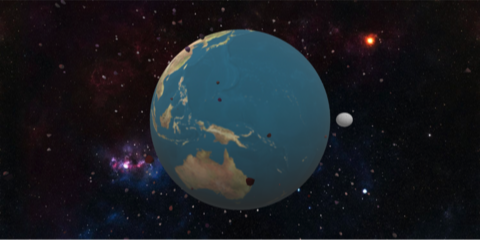
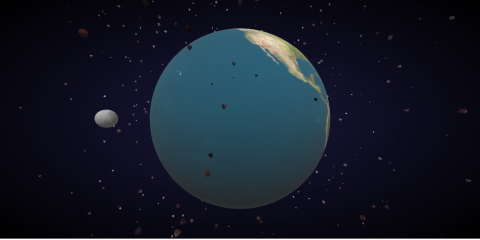
メインビジュアル修正

diff --git a/components/top/mainvisual.tsx b/components/top/mainvisual.tsx
@@ -81,17 +81,17 @@ export default function Component() {
         <div className="p-select-box">
           {mainvisual.map ( (data: Meinvisuallist ) => {
             return (
-              <label key="mainvisual">
-                <input type="radio" name="mainvisual" value={data.value} onChange={(e) => onchanges(e.currentTarget.value)} />
-                <img src={data.img} />
+              <label key="mainvisual" className="p-select-box-label">
+                <input type="radio" className="p-select-box-input" name="mainvisual" value={data.value} onChange={(e) => onchanges(e.currentTarget.value)} />
+                <img className="p-select-box-img" src={data.img} />
               </label>
             )
           } ) }
           {mainvisual.map ( (data: Meinvisuallist ) => {
             return (
-              <label key="mainvisual">
-                <input type="radio" name="mainvisual" value={data.value} onChange={(e) => onchanges(e.currentTarget.value)} />
-                <img src={data.img} />
+              <label key="mainvisual" className="p-select-box-label">
+                <input type="radio" className="p-select-box-input" name="mainvisual" value={data.value} onChange={(e) => onchanges(e.currentTarget.value)} />
+                <img className="p-select-box-img" src={data.img} />
               </label>
             )
           } ) }

diff --git a/styles/pages/p-main.css b/styles/pages/p-main.css
@@ -42,32 +42,32 @@
 * select
 **/
 .p-select-box {
-  display: flex;
-  width: 100%;
-  overflow: hidden;
   background-color: black;
   position: absolute;
   bottom: 0;
   left: 0;
+  display: flex;
+  width: 100%;
+  overflow: hidden;
 }
-.p-select-box label {
+.p-select-box .p-select-box-label {
   min-width: calc(100% / 4);
   animation: pc-slide 15s linear infinite;
   overflow: hidden;
 }
-.p-select-box label input {
+.p-select-box .p-select-box-label .p-select-box-input {
   display: none;
 }
-.p-select-box label img {
+.p-select-box .p-select-box-label .p-select-box-img {
   width: 100%;
   transition: all ease .5s;
 }
-.p-select-box label input:checked img,
-.p-select-box label img:hover {
+.p-select-box .p-select-box-label .p-select-box-input:checked .p-select-box-img,
+.p-select-box .p-select-box-label .p-select-box-img:hover {
   opacity: .7;
   transition: all ease .5s;
 }
-.p-select-box label img:hover {
+.p-select-box .p-select-box-label .p-select-box-img:hover {
   transform: scale(1.2);
 }
 @keyframes pc-slide {
@@ -246,7 +246,7 @@
   #p-mainvisual .p-mainvisual__click a {
     font-size: .5rem;
   }
-  .p-select-box label {
+  .p-select-box .p-select-box-label {
     min-width: -webkit-calc(100% / 3);
     min-width: calc(100% / 3);
     -webkit-animation: smp-slide 15s linear infinite;

diff --git a/components/three/three.tsx b/components/three/three.tsx
@@ -1,5 +1,5 @@
 import React from 'react'
-import { WebGLRenderer, Scene, PerspectiveCamera, Object3D, Fog, DirectionalLight, AmbientLight, SphereGeometry, TextureLoader, MeshStandardMaterial, SphereBufferGeometry, MeshPhongMaterial, DoubleSide, Mesh
+import { WebGLRenderer, Scene, PerspectiveCamera, Object3D, Fog, DirectionalLight, AmbientLight, SphereGeometry, TextureLoader, MeshStandardMaterial, SphereBufferGeometry, MeshPhongMaterial, Mesh
 } from 'three'
 import { EffectComposer } from 'three/examples/jsm/postprocessing/EffectComposer'
 import { RenderPass } from 'three/examples/jsm/postprocessing/RenderPass'
@@ -119,8 +119,7 @@ const Canvas: React.FC = () => {
         canvas {
           width: 100% !important;
           height: 50% !important;
-          background-image: url(https://uemu-engineer.com/images/three/planet.jpg);
-          background-size: cover;
+          background: radial-gradient(#1c1946,#000000);
           backdrop-filter:  brightness(50%);
         }
       `}</style>
